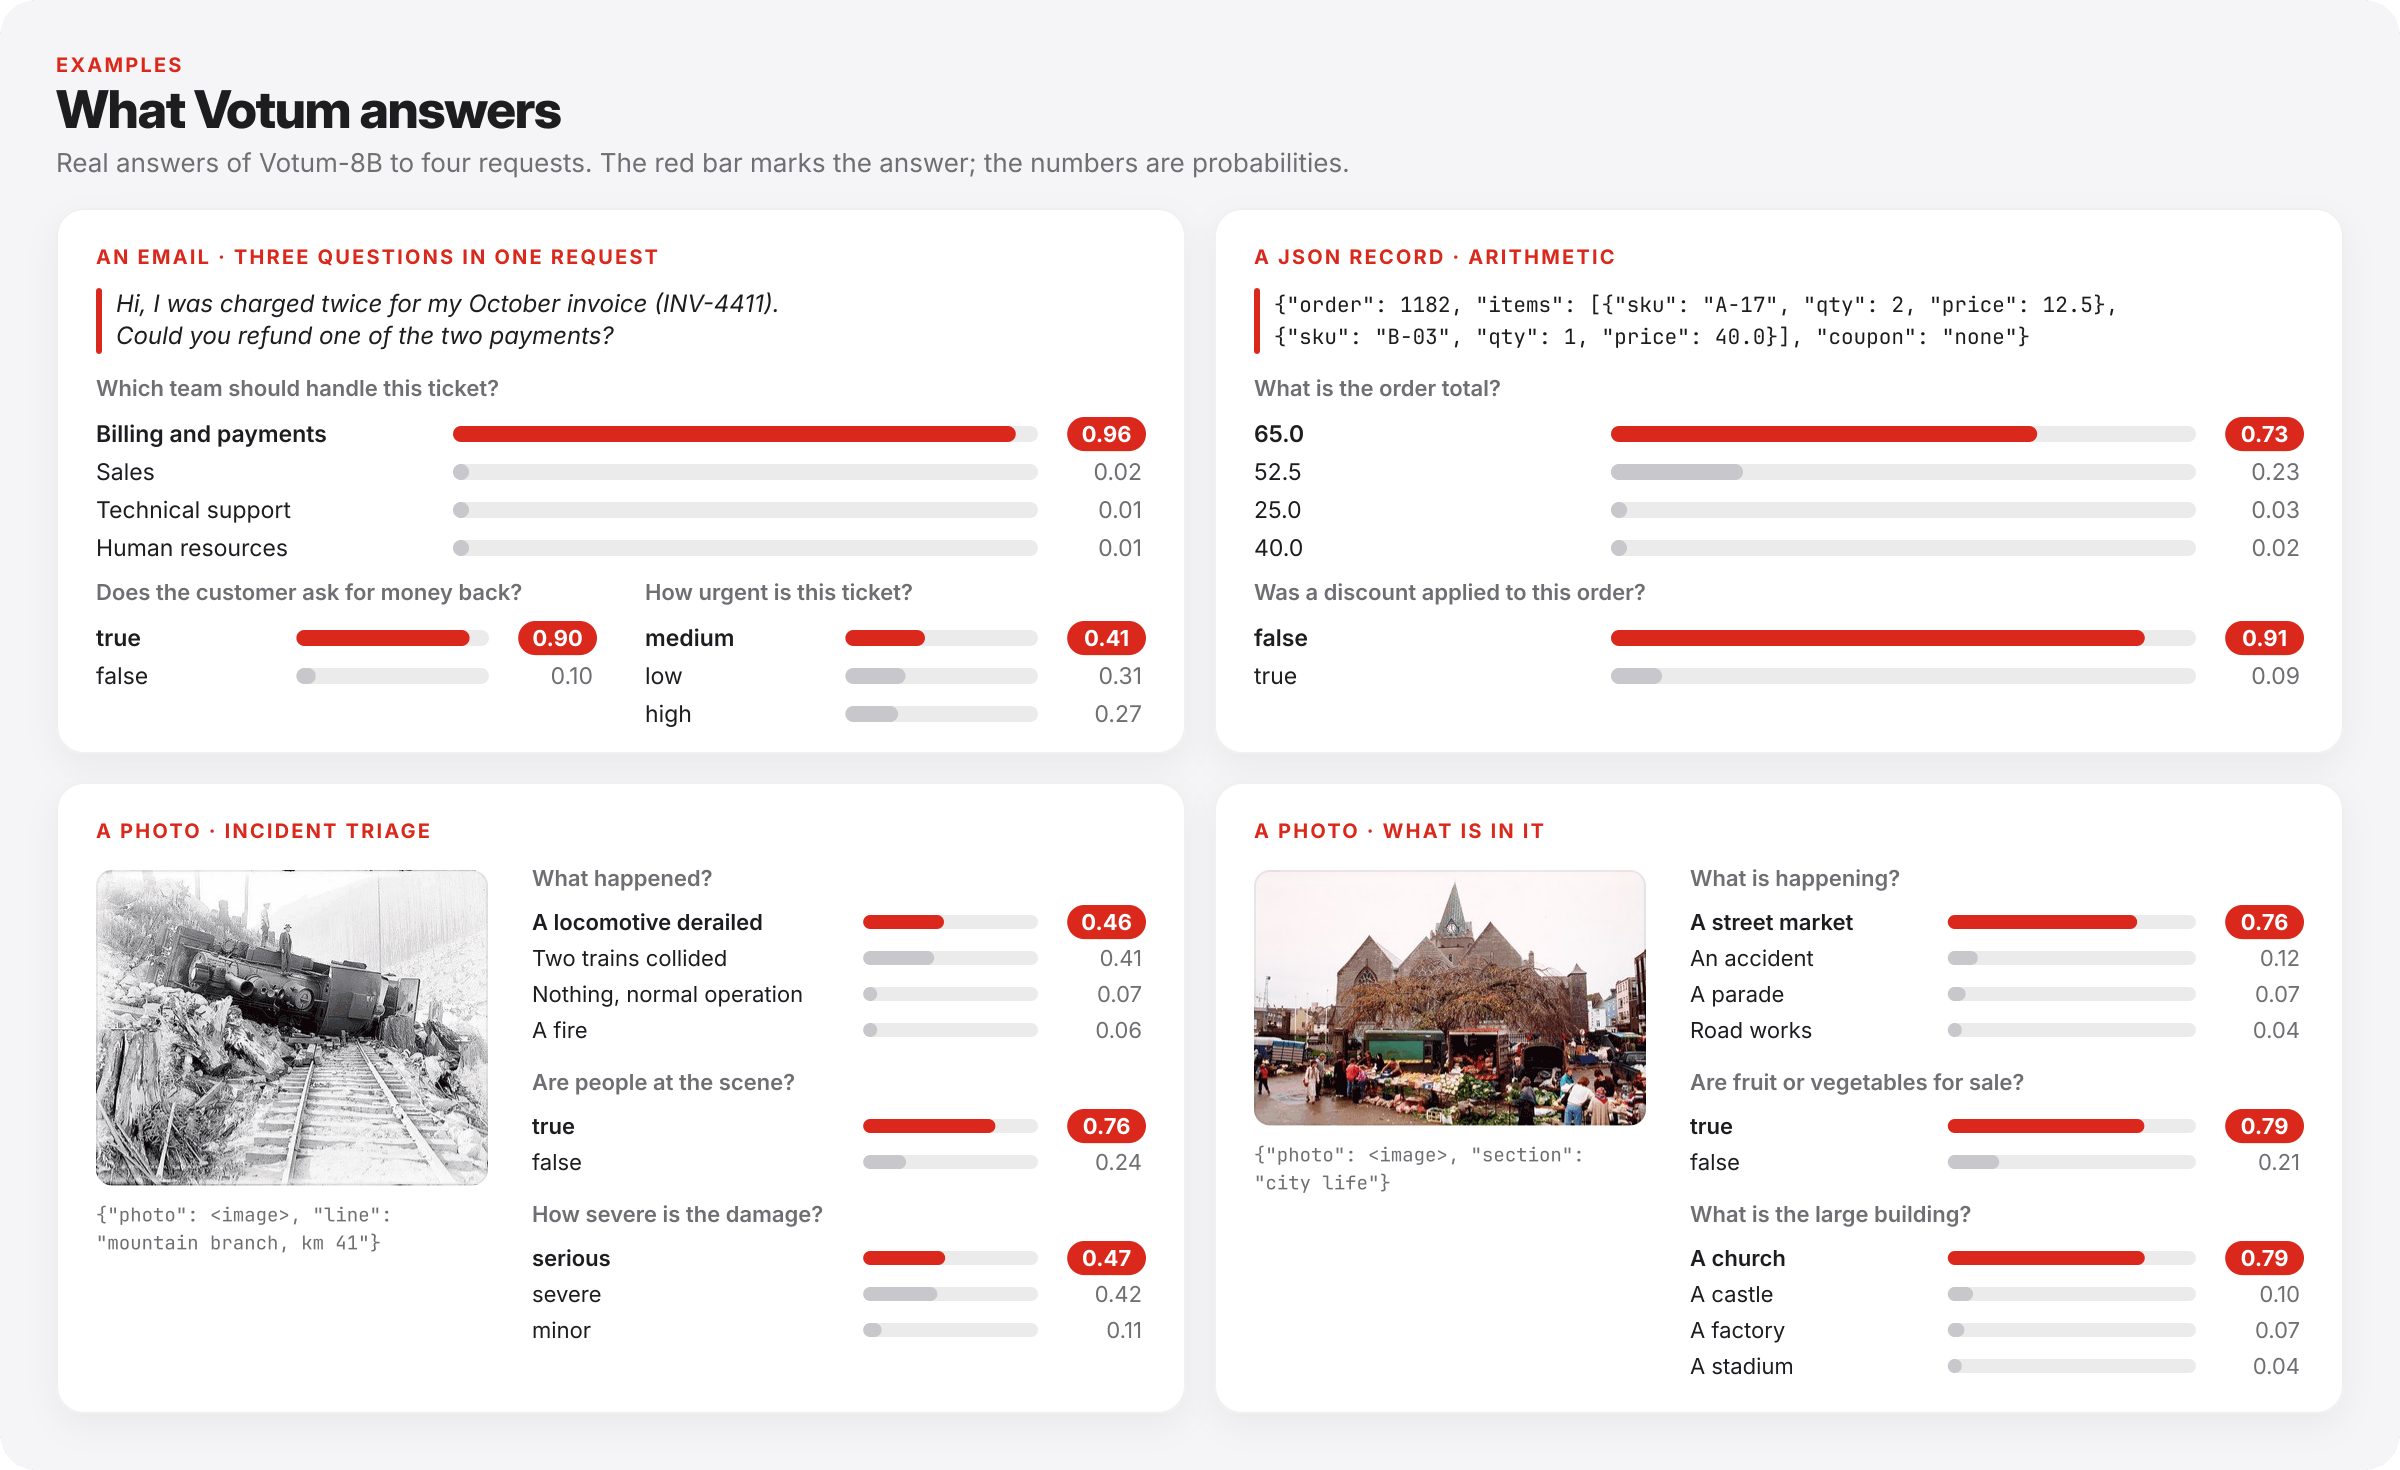
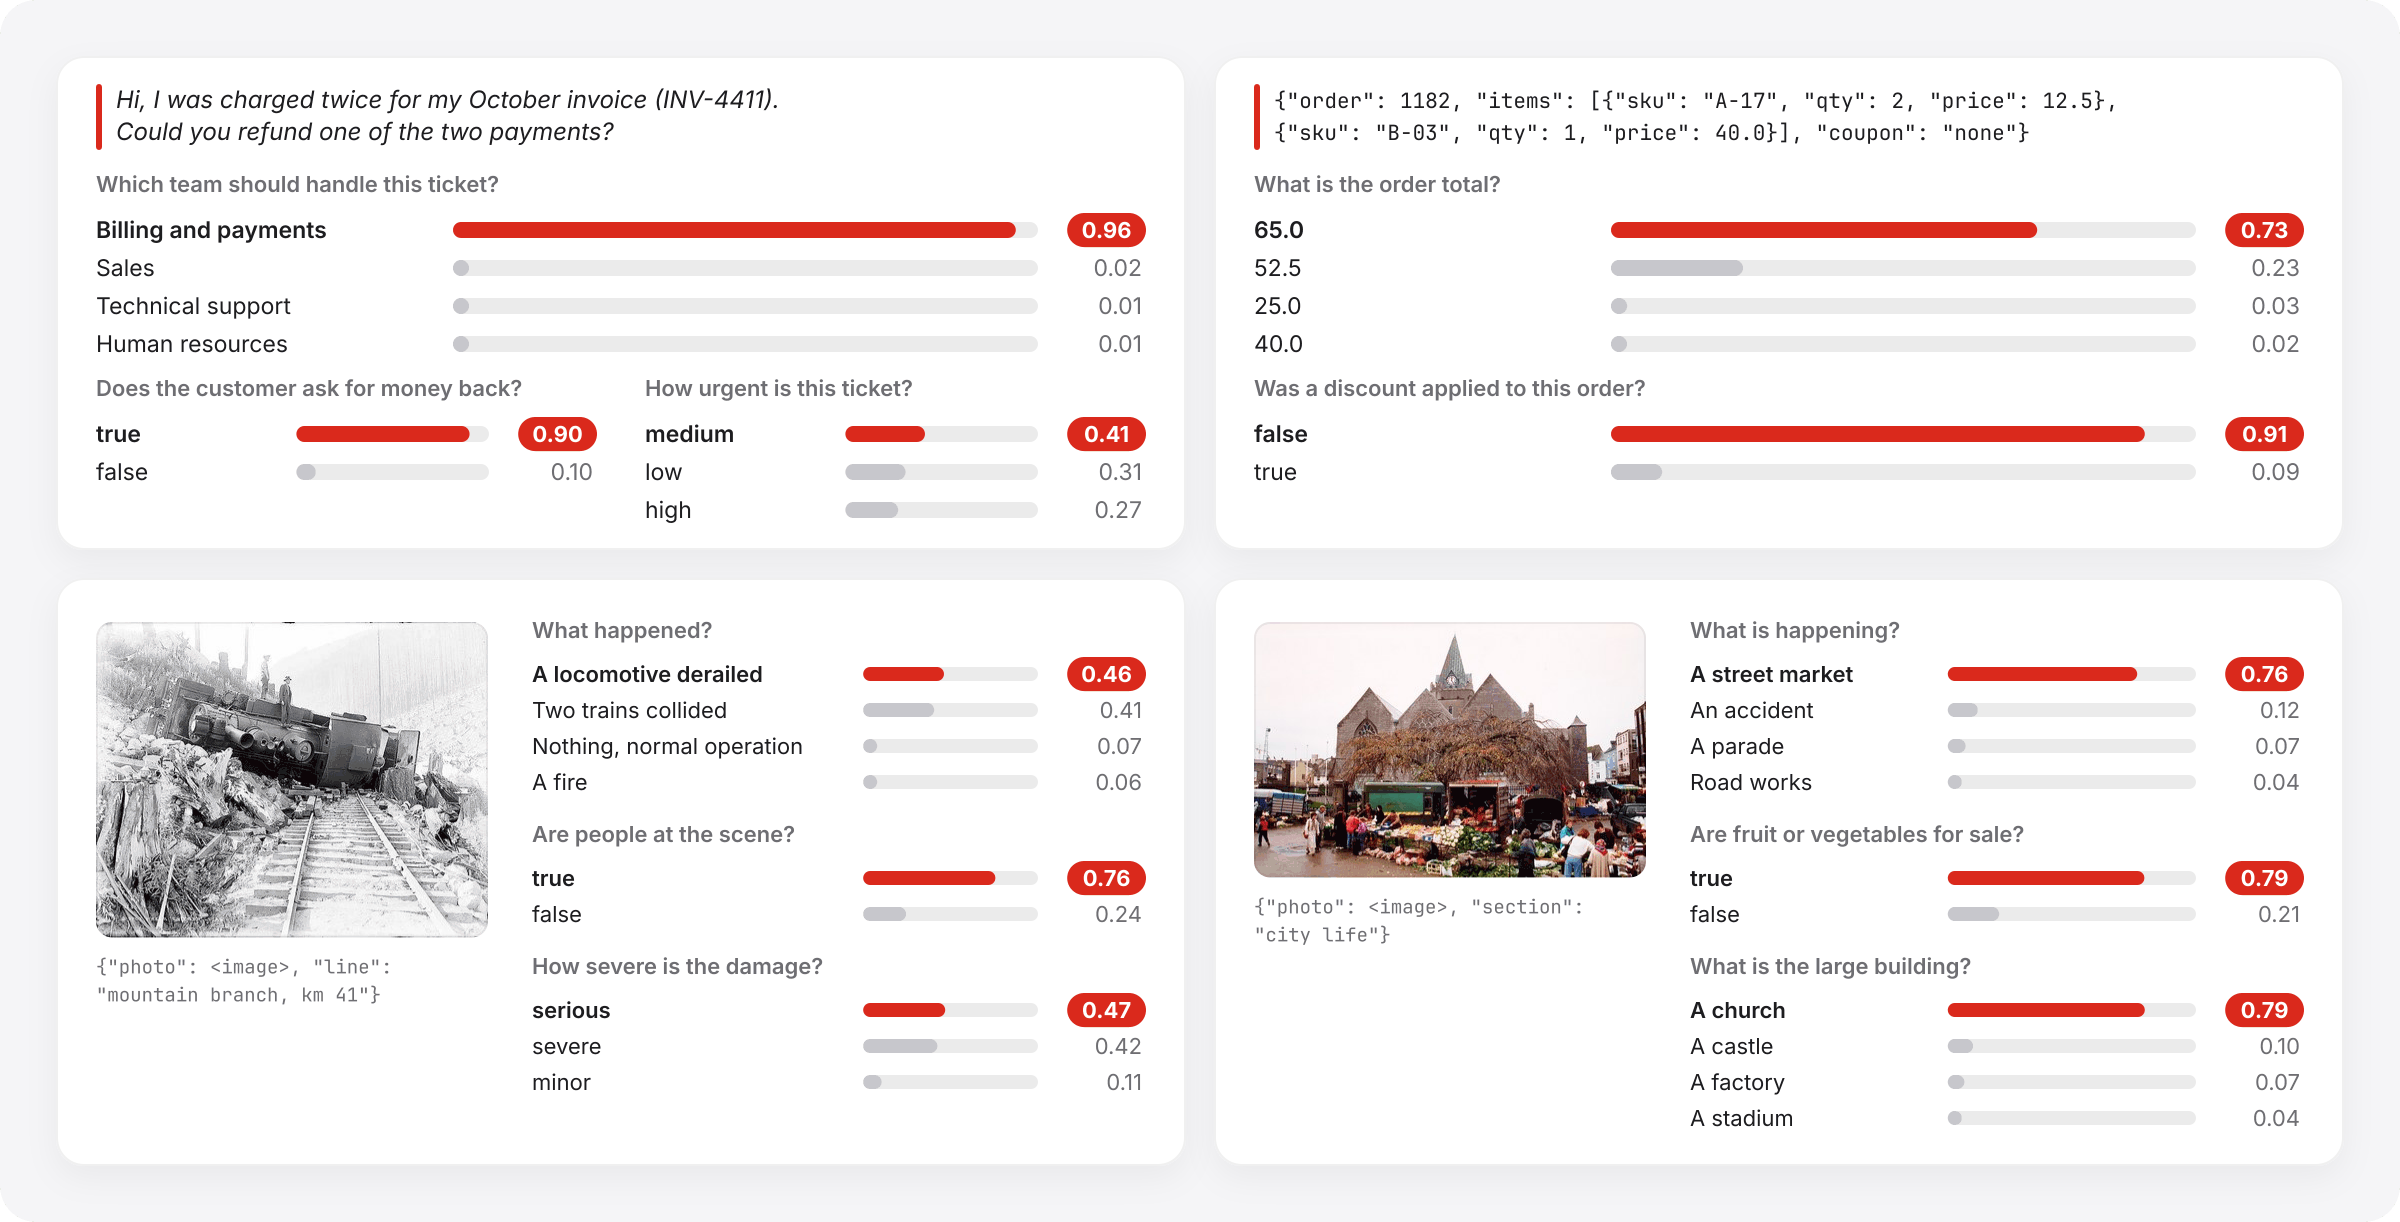
Figures without titles, headers and footnotes

diff --git a/scripts/make_assets.py b/scripts/make_assets.py
@@ -1,5 +1,6 @@
 """Architecture, example and data graphics for the Votum repos (SVG source + 2x PNG), in a product / landing-page style:
-cards with depth, hero numbers, one strong red accent, Inter Display headings, JetBrains Mono for prompts.
+cards with depth, one strong red accent, JetBrains Mono for prompts. Figures carry no title of their own: the page that
+embeds them has the heading.
 Every figure is drawn twice: <name>.png on a light grey backdrop with white elevated cards (light pages, and still legible
 where a viewer falls back to it on a dark background), and <name>_dark.png on a transparent canvas with translucent cards.
 The PNGs are stored as 8-bit palettes: every frequent flat colour keeps an exact palette entry, so only anti-aliased
@@ -118,11 +119,11 @@ def palettize(im, n_flat=96):
 
 
 def head(kicker, title, sub):
-    """eyebrow, display title, one-line subtitle; content starts at y = 96"""
-    return eyebrow(PAD, 36, kicker) + big(PAD, 64, title, 26, INK) + T(PAD, 86, sub, 13, MUTED)
+    """figures carry no title of their own: the page that embeds them has the heading and the caption"""
+    return ""
 
 
-TOP = 104
+TOP = PAD
 
 
 def tile(x, y, w, h, kicker, value, label, hero=False, unit=""):
@@ -229,12 +230,9 @@ def architecture():
             parts.append(bar(cx, yc - 6, 27, 12, SWISS, 3) + T(cx + 13.5, yc + 3.2, "end", 9, WHITE, 600, "middle"))
             opt_y.append((qi, oid, z, a["probs"][oid], yc))
     a_bottom = y
-    cbot = a_bottom + 52; ch = cbot - ctop
-    b.append(card(PAD, ctop, c1w, ch) + step(PAD + 16, ctop + 32, 1, "The request as one prompt"))
+    cbot = a_bottom + 30; ch = cbot - ctop
+    b.append(card(PAD, ctop, c1w, ch) + step(PAD + 16, ctop + 32, 1, "One prompt"))
     b += parts
-    b.append(T(ax + 26, a_bottom + 16, "The prompt verbatim, system turn not shown.", 10.5, MUTED))
-    b.append(T(ax + 26, a_bottom + 30, "The header tells the state what will be asked; the question", 10.5, MUTED))
-    b.append(T(ax + 26, a_bottom + 44, "blocks are where options are scored, each at its end token.", 10.5, MUTED))
 
     # 2 who reads whom
     c2x = PAD + c1w + GAP
@@ -257,15 +255,10 @@ def architecture():
                      f'fill="{(GRID, SUB, RED)[v] if v or c <= k else OFF}"/>')
     ly = my + n * cs + 22; lx = c2x + 20
     b.append(bar(lx, ly - 8, 9, 9, SUB, 2) + T(lx + 14, ly, "row reads column", 10.5, MUTED))
-    b.append(bar(lx, ly + 7, 9, 9, RED, 2) + T(lx + 14, ly + 15, "within a block: causal, or both ways", 10.5, MUTED))
-    b.append(T(lx + 14, ly + 29, "in the 8 bidirectional layers", 10.5, MUTED))
-    b.append(T(lx, ly + 50, "Options never read each other and nothing", 10.5, MUTED))
-    b.append(T(lx, ly + 64, "reads them: each question stands alone.", 10.5, MUTED))
-    b.append(T(lx, ly + 84, "Header + state are identical for every", 10.5, MUTED))
-    b.append(T(lx, ly + 98, "question, so they are computed once.", 10.5, MUTED))
+    b.append(bar(lx, ly + 7, 9, 9, RED, 2) + T(lx + 14, ly + 15, "the block itself", 10.5, MUTED))
 
     # 3 one pass, one score per option: backbone column + scores aligned with the option rows
-    b.append(card(c3x, ctop, c3w, ch) + step(c3x + 16, ctop + 32, 3, "One pass, one score per option"))
+    b.append(card(c3x, ctop, c3w, ch) + step(c3x + 16, ctop + 32, 3, "One score per option"))
     bx, bw = c3x + 24, 40; by = in_top + 2; lh2 = (a_bottom - 2 - by) / 32
     b.append(bar(bx - 8, by - 8, bw + 16, 32 * lh2 + 14, OFF, 8))
     for L in range(32):
@@ -273,15 +266,7 @@ def architecture():
         b.append(bar(bx, by + L * lh2 + (lh2 - 4) / 2, bw, 4, RED if bid else NEUTRAL, 2))
     b.append(T(bx + bw / 2, a_bottom + 16, "Apertus-8B", 10.5, MUTED, 600, "middle"))
     px = bx + bw + 36; pr = c3x + c3w - 20
-    fy = in_top + 16 + (q_y[0] - 20 - in_top - 40) / 2       # formula block centred above the first scores
-    b.append(rich(px, fy, [("z = ⟨q", ""), ("0", "sub"), (", W", ""), ("o", "sub"), (" · LN(h", ""), ("end", "sub"), (")⟩ / 16", "")], 13, INK, 600))
-    b.append(T(px, fy + 18, "h: last-layer state at the option's end token", 10.5, MUTED))
-    b.append(rich(px, fy + 33, [("q", ""), ("0", "sub"), (": learned 256-d query · W", ""), ("o", "sub"), (": 256 × 4096", "")], 10.5, MUTED))
-    b.append(bar(bx - 8, a_bottom + 27, 9, 9, RED, 2) + T(bx + 6, a_bottom + 35, "bidirectional layers (8 of 32) · LoRA r16 in all 32 · nothing generated", 10.5, MUTED))
     zx = px + 46
-    for qi in q_y:
-        first = min(yc for qq, _, _, _, yc in opt_y if qq == qi)      # label just above the question's first option row
-        b.append(T(px, first - 20, "z  →  softmax over the options", 11, MUTED, 600))
     for qi, oid, z, p, yc in opt_y:
         win = p == max(pp for qq, _, _, pp, _ in opt_y if qq == qi)
         b.append(T(zx + 50, yc + 4, f"{z:+.2f}", 10.5, MUTED, 500, "end", f'font-family="{MONO}"'))
@@ -301,7 +286,7 @@ CARDS = [("An email · three questions in one request", [["team"], ["refund", "u
 
 def ex_card(x, y, w, title, state, rows, json_state, h_min=0):
     """one example card; cards of a grid row share a height (h_min) and their question rows line up"""
-    b = [eyebrow(x + 20, y + 28, title)]; yy = y + 36
+    b = []; yy = y + 10
     lim = 82 if json_state else 90; lines = wrap(state, lim)
     if len(lines) == 2 and not json_state:
         sent = [k + 2 for k in range(len(state) - 2) if state[k] == "." and state[k + 1] == " "]   # break at a sentence end if it fits
@@ -363,10 +348,10 @@ def thumb(path, w, h_max):
 
 def vx_card(x, y, w, k, title, req, ans, h_min=0):
     """one image card: the photo and the state's other fields on the left, the request's questions on the right"""
-    b = [eyebrow(x + 20, y + 28, title)]
+    b = []
     src = next(v["image"] for v in req["state"].values() if isinstance(v, dict) and "image" in v)
     uri, dw, dh = thumb(FIX / src, IMG_W, 210)
-    ix, iy = x + 20, y + 44
+    ix, iy = x + 20, y + 22
     b.append(f'<clipPath id="vc{k}"><rect x="{ix:.1f}" y="{iy:.1f}" width="{dw:.1f}" height="{dh:.1f}" rx="8"/></clipPath>'
              f'<image href="{uri}" x="{ix:.1f}" y="{iy:.1f}" width="{dw:.1f}" height="{dh:.1f}" clip-path="url(#vc{k})" preserveAspectRatio="none"/>'
              f'<rect x="{ix + .5:.1f}" y="{iy + .5:.1f}" width="{dw - 1:.1f}" height="{dh - 1:.1f}" rx="7.5" fill="none" stroke="{EDGE}"/>')
@@ -374,7 +359,7 @@ def vx_card(x, y, w, k, title, req, ans, h_min=0):
     yy = iy + dh + 4
     for ln in wrap(rest.replace('"@IMG@"', "<image>"), 32):
         yy += 14; b.append(T(ix, yy, ln, 9.5, MUTED, 400, extra=f'font-family="{MONO}"'))
-    qx = ix + IMG_W + 22; qw = x + w - 20 - qx; yq = y + 44
+    qx = ix + IMG_W + 22; qw = x + w - 20 - qx; yq = y + 22
     longest = max(textw(t, 11) for q in req["questions"].values() for t in option_labels(q).values())
     lab = min(0.62, max(0.42, (longest * 1.12 + 18) / qw))      # one label column per card, wide enough for its longest label
     for qid, q in req["questions"].items():
